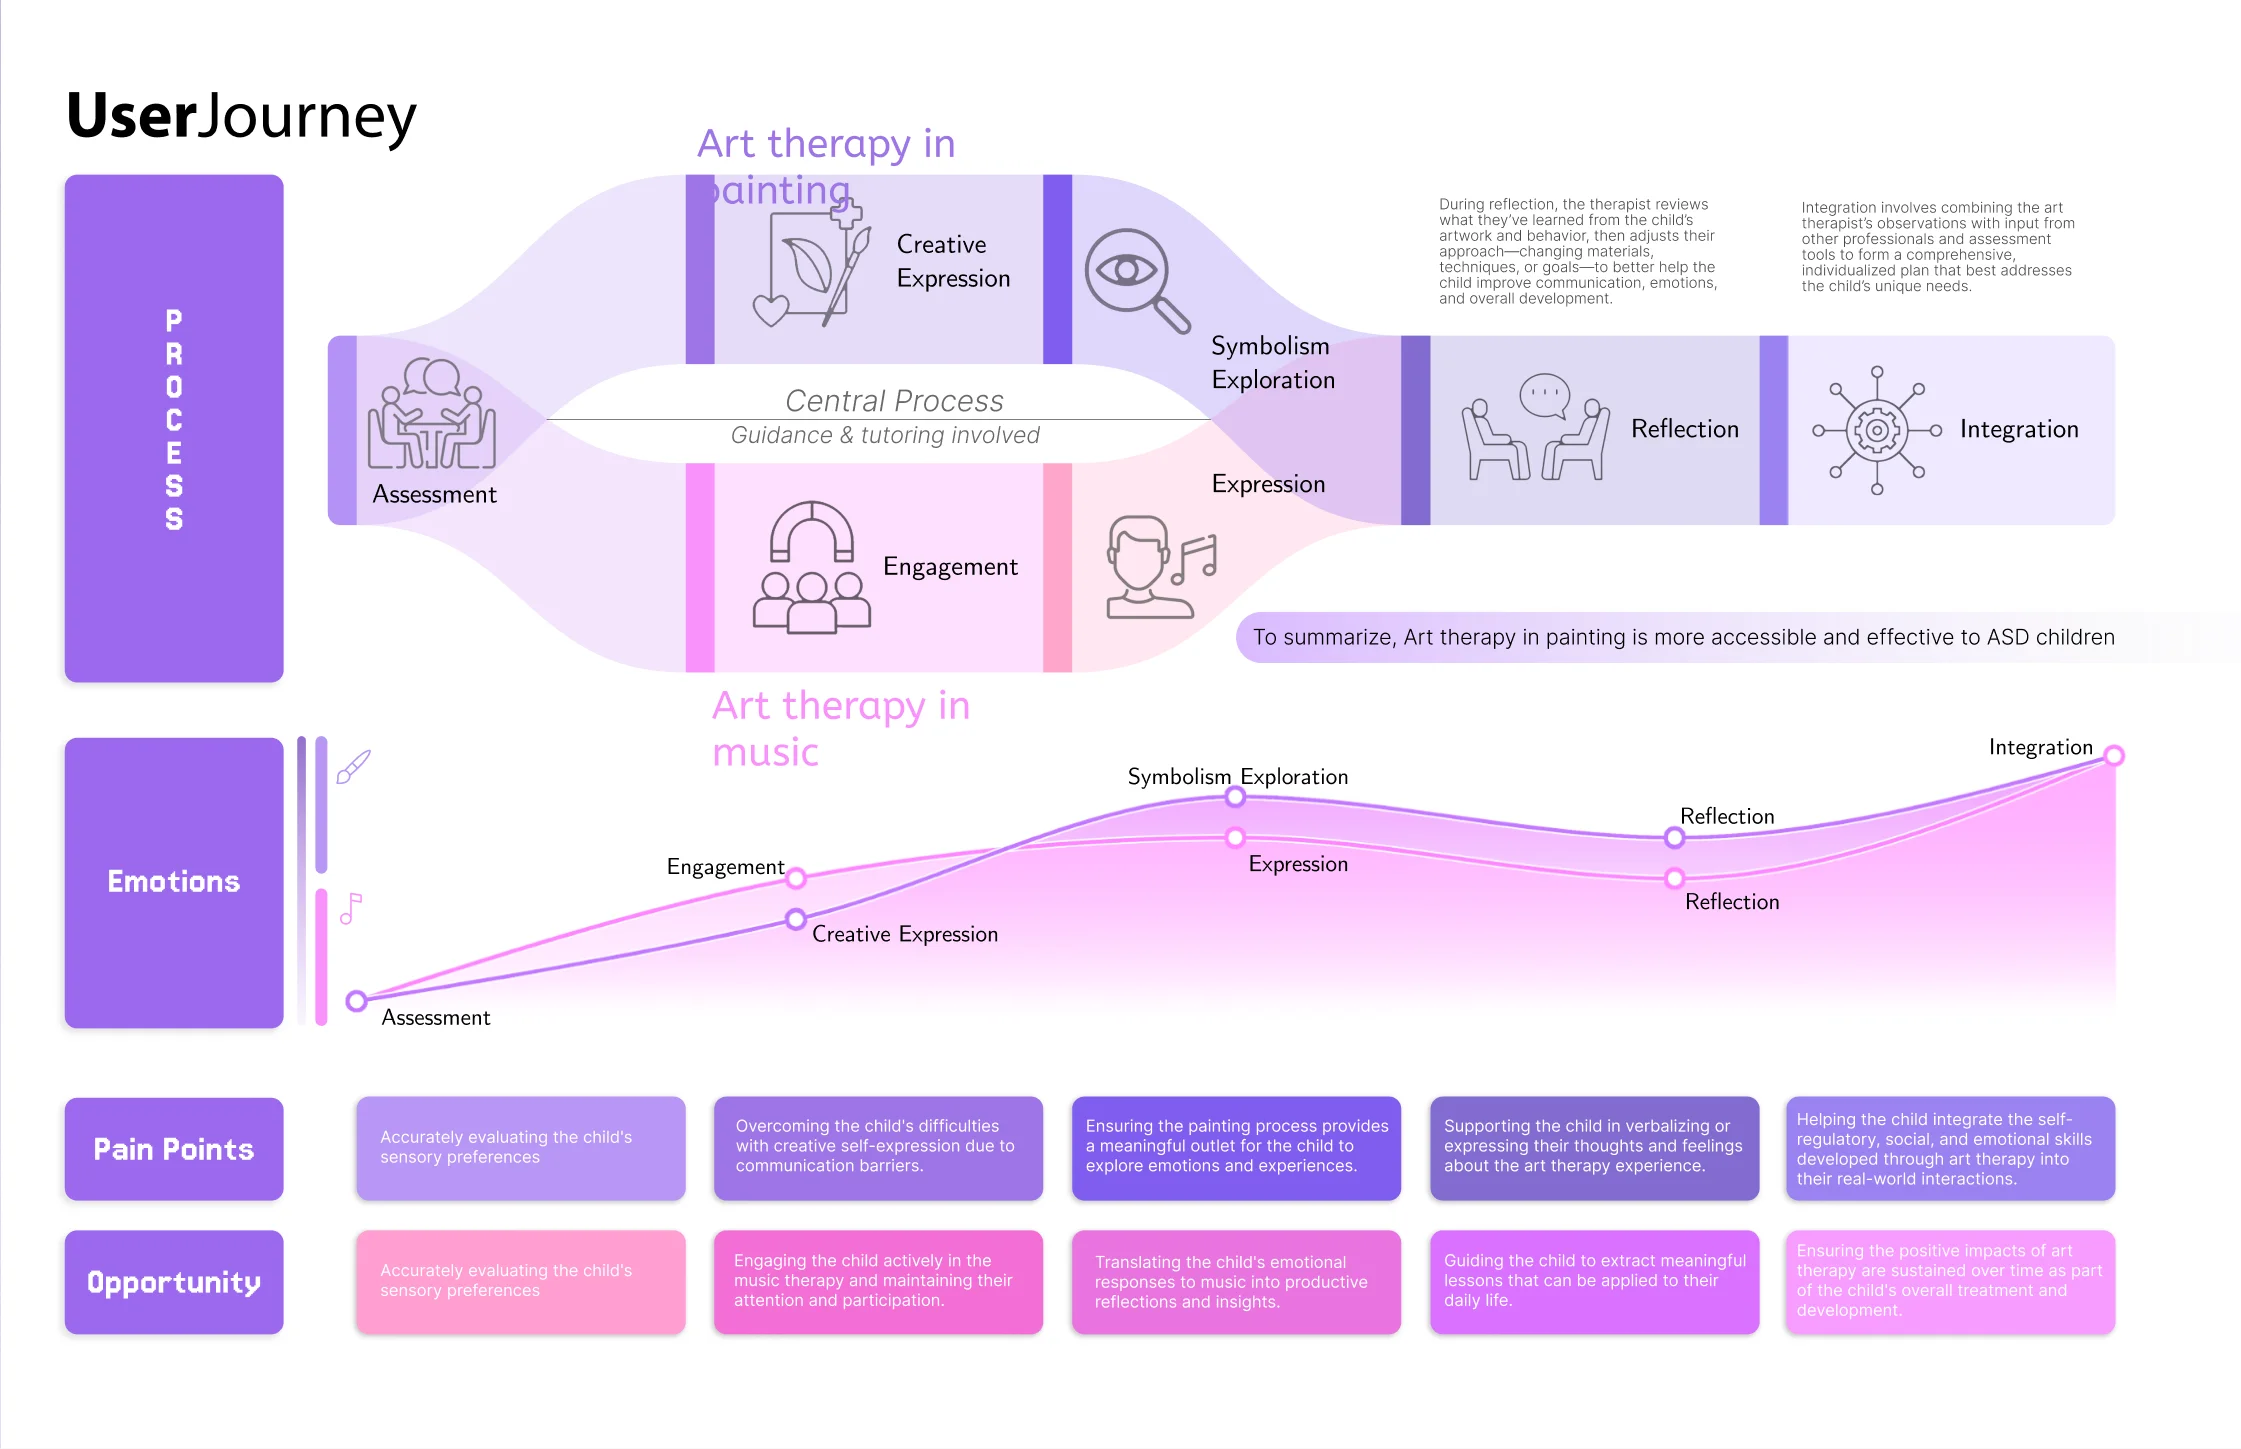
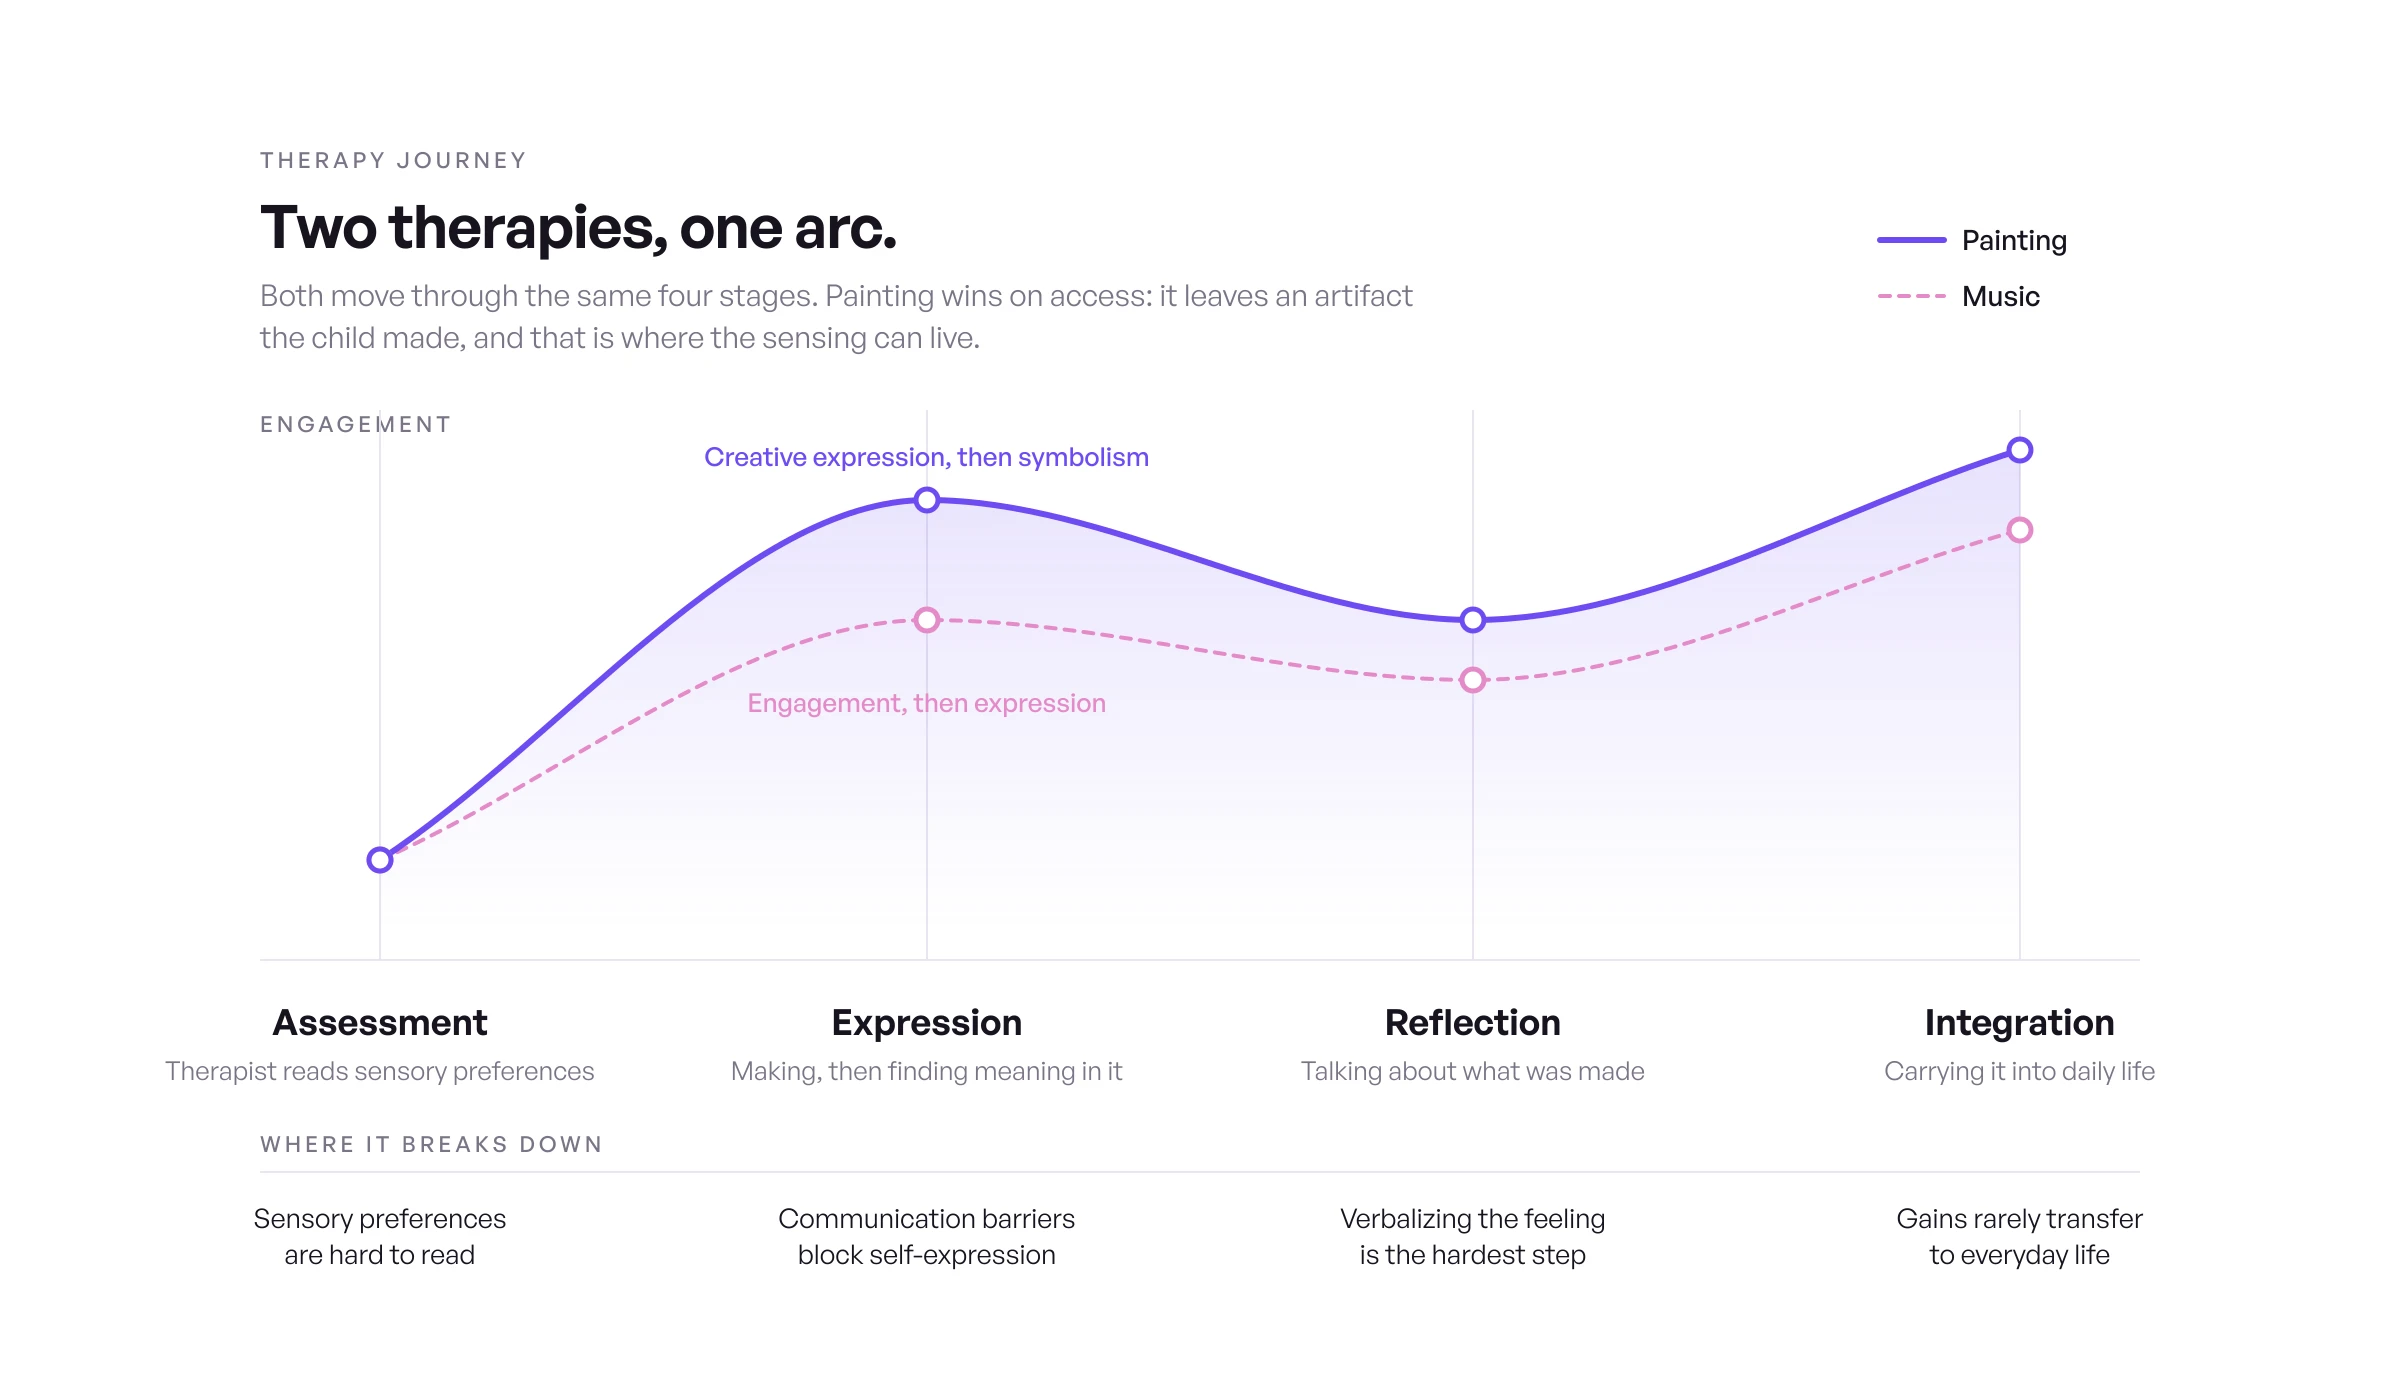
Redraw the Mood Muse therapy journey as one chart
The old panel was a slide export: five rows, two colour systems, some
two hundred words, and the finding it existed to make, that painting
wins on access, sitting in a footnote at the bottom right.

The content is small, so the panel is now small: the four stages both
therapies share, an engagement curve for each, and one line of
friction per stage. Set in General Sans so it reads as part of the
case study rather than pasted into it. Curves are monotone cubic, so
the dip into reflection reads as a slope and not a cliff.

Generated by scripts/moodmuse-journey.mjs. libvips on macOS draws
text through CoreText, which can't see the site's woff2 files, so the
script points Pango at a fontconfig with TTF copies of the face in
moodmuse-assets/fonts/ (gitignored, decoded from public/fonts).

diff --git a/src/data/projectDetails.ts b/src/data/projectDetails.ts
@@ -504,7 +504,7 @@ const moodmuse: ProjectDetailDocument = {
       headline: "Who Holds the Brush, and Who Needs to Know",
       figures: [
         { type: "image", src: moodmusePersona, alt: "Three persona cards on purple: MOMO, an eight-year-old autistic boy; Yang Lan, a 34-year-old mother; Zhou Weihua, a 37-year-old therapist. Each with a radar chart and pain points" },
-        { type: "image", src: moodmuseJourney, alt: "User journey map comparing art therapy in painting and in music: process stages, emotion curves, pain points, and opportunities from assessment to integration", full: true },
+        { type: "image", src: moodmuseJourney, alt: "Therapy journey chart: painting and music art therapy move through the same four stages, assessment, expression, reflection, integration. An engagement curve for each, painting higher throughout, and the friction at every stage, from reading sensory preferences to carrying gains into daily life", full: true },
       ],
       body: "We compared six therapies (ABA, speech and language, occupational, social skills, CBT, art) and rated four ways to detect emotion: facial recognition, voice analysis, body language, and physiological monitoring. Because autistic children express emotion so variably, physiological signals came out as the most reliable and least intrusive: continuous, real time, and independent of cues the child may not give.\n\n## Three People in the Room\n\n[[fig:0]]\n\nMOMO, eight, struggles to express and regulate emotion and is distressed by sensory load. His mother Yang Lan carries the stress, the cost of specialized therapy, and the uncertainty about his future. His therapist Zhou Weihua needs to personalize interventions, track outcomes over time, and pull scattered resources into one plan.\n\n**Each of them needed the same thing from a different side: to know what he was feeling while it was happening.**\n\n## Painting Over Music\n\n[[fig:1]]\n\nMapping the therapy journey stage by stage, painting and music share the same arc: assessment, expression, reflection, integration. Painting won on access. It leaves an artifact the child made, and that artifact is where the sensing can live.",
     },
